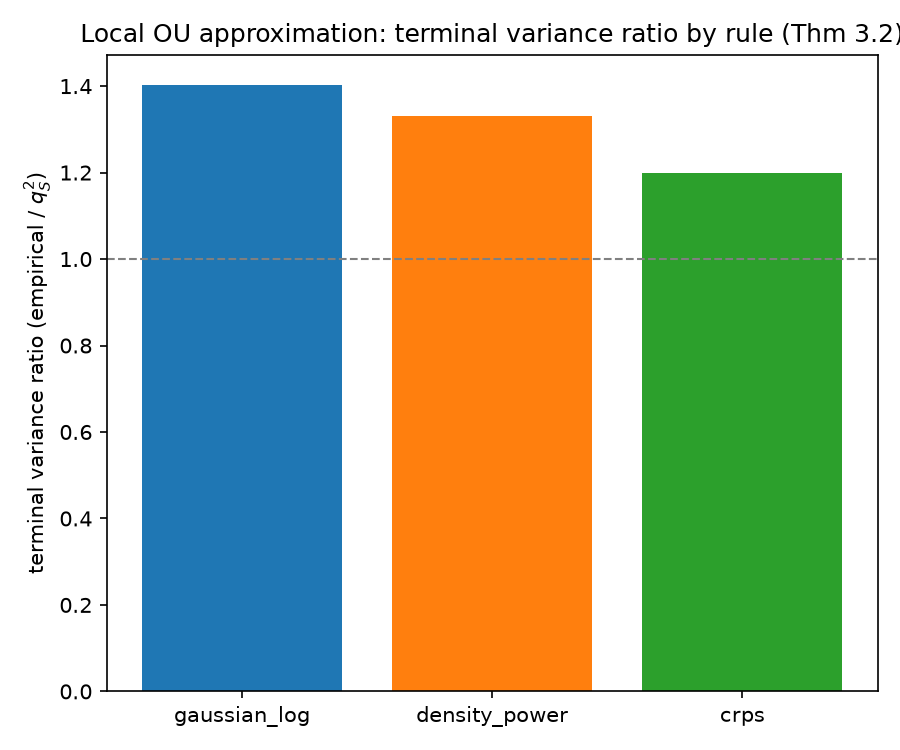
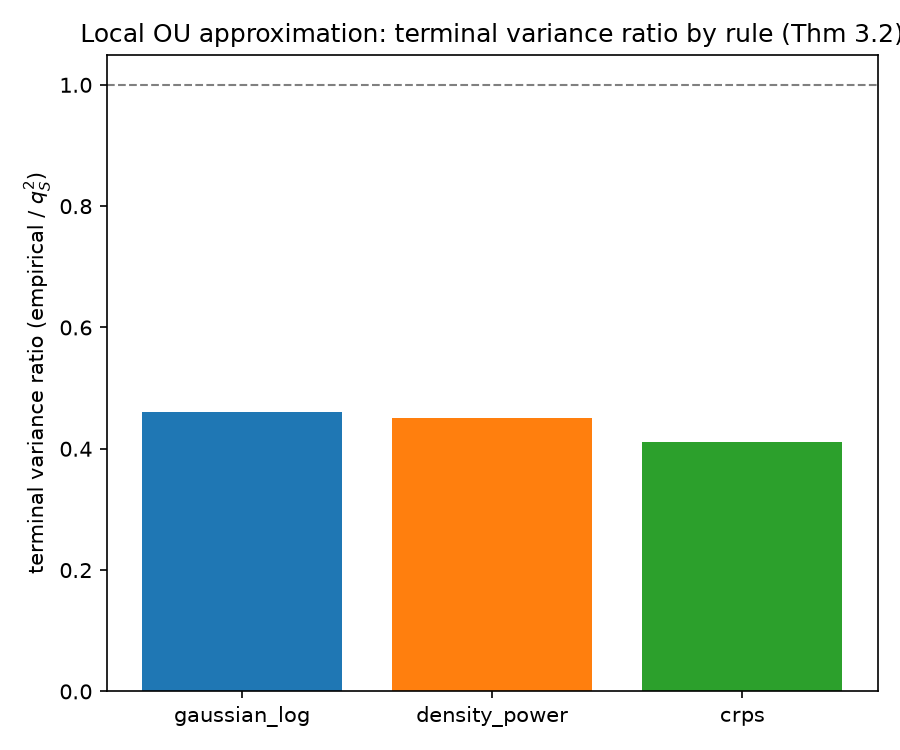
Fix exp1 tail classification to use true asymptotic limit; fix exp5 mean-flow step count to scale with mesh

diff --git a/exp/exp1.py b/exp/exp1.py
@@ -26,25 +26,41 @@ RESULTS_DIR = "results"
 def classify_tail(rule: str, z_max: float = 10.0, tail_window: float = 1.0) -> dict:
     """Classify the tail behaviour of g_S^circ on |z| in [0, z_max].
 
-    * "unbounded" if |g^circ(z_max)| keeps growing (ratio to value at z_max/2 > 1.5);
-    * "tail_saturating" if the driver approaches a finite nonzero limit;
-    * "redescending" if the driver returns to (near) zero after an interior peak.
+    The "redescending" vs. "tail-saturating" distinction is a property of the
+    true asymptotic limit as z -> infinity (as in Appendix G and Section 6.1:
+    a redescending driver returns to zero, a tail-saturating one approaches a
+    finite nonzero plateau), not of the ratio between the value at z_max and
+    an interior peak -- density-power has a tall interior peak (Table G.5)
+    followed by a slow decay to its nonzero plateau kappa_beta/J_S, which a
+    peak-relative threshold would misclassify as redescending.
+
+    * "unbounded" if |g^circ| keeps growing without bound for z -> infinity;
+    * "tail_saturating" if the asymptotic limit is finite and nonzero;
+    * "redescending" if the asymptotic limit is (numerically) zero.
     """
     z_grid = np.linspace(0.01, z_max, 2000)
     g = curvature_normalised_driver(rule, z_grid)
     g_abs = np.abs(g)
-    tail_val = g_abs[-1]
-    half_val = np.abs(curvature_normalised_driver(rule, np.array([z_max / 2])))[0]
-    if tail_val > 1.5 * max(half_val, 1e-12):
+
+    # Probe the true z -> infinity behaviour far beyond the display range.
+    z_far = np.array([1.0e2, 1.0e3, 1.0e4])
+    g_far = np.abs(curvature_normalised_driver(rule, z_far))
+    is_unbounded = g_far[-1] > 10.0 * max(g_far[0], 1e-12)
+    asymptotic_limit = float(np.abs(curvature_normalised_driver(rule, np.array([1.0e6]))[0]))
+
+    if is_unbounded:
         return {"tail": "unbounded", "tail_limit": None, "peak_z": None, "monotone_to_plateau": None}
+
     peak_idx = int(np.argmax(g_abs))
     peak_z = float(z_grid[peak_idx])
-    is_redescending = tail_val < 0.1 * g_abs[peak_idx]
+    # Redescending: the asymptotic plateau is itself (numerically) zero.
+    is_redescending = asymptotic_limit < 1.0e-3 * max(g_abs[peak_idx], 1e-12)
     monotone = bool(np.all(np.diff(g_abs[: peak_idx + 1]) >= -1e-9)) if peak_idx > 0 else True
     monotone_to_plateau = bool(np.all(np.diff(g_abs[peak_idx:]) >= -1e-6))
     return {
         "tail": "redescending" if is_redescending else "tail_saturating",
         "tail_limit": float(g[-1]),
+        "asymptotic_limit": asymptotic_limit,
         "peak_z": peak_z,
         "monotone_to_plateau": monotone_to_plateau,
     }

diff --git a/src/diffusion.py b/src/diffusion.py
@@ -85,18 +85,24 @@ def mean_flow_fixed_point(rule: str, alpha_bar: float, kappa: float) -> float:
 
 
 def simulate_mean_flow(
-    rule: str, h: float, alpha_bar: float, kappa: float, T_steps: int, R: int, rng: np.random.Generator,
-    dof: int = 5, lambda_init: float = 2.0,
+    rule: str, h: float, alpha_bar: float, kappa: float, T_time: float, R: int, rng: np.random.Generator,
+    dof: int = 5, lambda_init: float = 0.0,
 ) -> np.ndarray:
-    """Simulate the non-centred O(h)-gain recursion; residual is a
-    variance-matched Student-t_dof innovation. Returns (R, T_steps) lambda path."""
+    """Simulate the non-centred O(h)-gain recursion over rescaled time horizon
+    ``T_time`` (Theorem E.7). As in ``simulate_local_ou``, demonstrating the
+    continuous-time limit requires the discrete step count to grow as h -> 0
+    (n_steps = T_time / h), so that the cumulative relaxation kappa_h*n_steps =
+    kappa*T_time stays fixed across the mesh; a fixed raw iteration count would
+    not let the recursion approach its steady state as h shrinks. Residual is a
+    variance-matched Student-t_dof innovation. Returns (R, n_steps) lambda path."""
     scale = np.sqrt((dof - 2) / dof)
     alpha_h = alpha_bar * h
     kappa_h = kappa * h
+    n_steps = max(1, int(round(T_time / h)))
     lam = np.full(R, lambda_init, dtype=float)
-    path = np.empty((R, T_steps))
+    path = np.empty((R, n_steps))
     driver = DRIVERS[rule]
-    for t in range(T_steps):
+    for t in range(n_steps):
         z = rng.standard_t(dof, size=R) * scale
         if rule == "mmd_rbf":
             u = driver(z, lam=lam)

diff --git a/exp/exp5.py b/exp/exp5.py
@@ -158,7 +158,7 @@ def run_part_b(
     R: int = EXP5_R_MEANFLOW_RUN,
     rng: np.random.Generator | None = None,
     h_grid=EXP5_H_GRID_CENTRED,
-    T_steps: int = EXP5_T_MEANFLOW,
+    T_time: float = EXP5_T_MEANFLOW,
     alpha_bar: float = EXP5_ALPHA_BAR,
     kappa: float = EXP5_KAPPA,
     dof: int = EXP5_MEANFLOW_T5_DOF,
@@ -173,7 +173,7 @@ def run_part_b(
     for rule in rules:
         fixed_point_estimate = []
         for h in h_grid:
-            path = simulate_mean_flow(rule, h, alpha_bar, kappa, T_steps, R, rng, dof=dof)
+            path = simulate_mean_flow(rule, h, alpha_bar, kappa, T_time, R, rng, dof=dof)
             fixed_point_estimate.append(float(path[:, -1].mean()))
         analytical = mean_flow_fixed_point(rule, alpha_bar, kappa)
         limit_estimate = fixed_point_estimate[-1]  # h_grid is decreasing in h
